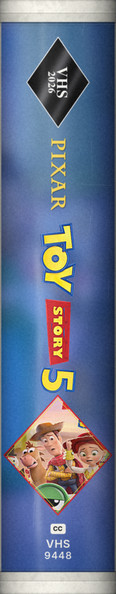
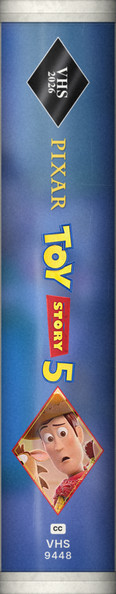
Clamshells: tall diamond portrait with a single face
Claude-Session: https://claude.ai/code/session_01RnhGoJvJQYqU1rpTHc7xo4

Changed region(s): [[0.0259, 0.3636, 0.9569, 0.8788]]

diff --git a/spinegen/tapes.py b/spinegen/tapes.py
@@ -739,7 +739,7 @@ def portrait(box, h, border=(214, 30, 40), inner=(250, 214, 60)):
     """a crop of the poster in a red diamond frame"""
     def fn(im, W, y0, rng):
         cov = Image.open(CUR['cover']).convert('RGB'); cw, ch = cov.size
-        w_ = W * 0.94
+        w_ = W * 0.80  # a true diamond: clearly taller than it is wide, not a square on its corner
         c = cov.crop((int(box[0] * cw), int(box[1] * ch), int(box[2] * cw), int(box[3] * ch))).resize((int(w_ * S), int(h * S)), Image.LANCZOS)
         c = c.filter(ImageFilter.UnsharpMask(3, 60, 2)).convert('RGBA')
         m = Image.new('L', c.size, 0); d = ImageDraw.Draw(m)
@@ -769,7 +769,7 @@ def disney(id, bg, title, face, lcol=(250, 214, 80), head=(('VHS', 30), ('2026',
     W = int(round(w_for(FILMS[id].get('runtime')) * 1.26))  # a clamshell is a thicker box
     items = [Gap(4), Gap(10), head_diamond(head, int(W * .78)), Gap(22), vlogo(id, lcol, int(W * .62), lpath), Gap(22),
              Flex(.5), V(title if isinstance(title, list) else [title], gap=10), Flex(.7),
-             portrait(face, int(W * 1.04)), Gap(16), ccbox(ink), Gap(12),
+             portrait(face, int(W * 1.12)), Gap(16), ccbox(ink), Gap(12),
              tiny(['VHS'], ink, font='intsb', size=22, track=.04), Gap(8), catno(cat or catfor(id)[:4], ink, size=20)]
     add(id, bg, items, fin=fin or dict(CLAM), W=W, notch=False, top=16, bot=26, side=22, **kw)
 
@@ -818,16 +818,16 @@ def ts_plate(y0f, y1f):
 disney('toy-story-5-2026', ('strip', dict(x0=.0, blur=14, wash=((44, 110, 214), .62))),
        LC([(0.375, 0.064, 0.625, 0.146), (0.380, 0.126, 0.610, 0.190), (0.450, 0.168, 0.550, 0.250)], 170, gapf=.05,
           cuts=[ts_letters, ts_plate(.30, .68), ts_letters]),
-       ph(.37, .335, .46, 1.3))
+       ph(.335, .305, .19, 1.4))
 
 # Hoppers: the poster's yellow all the way down, its glitchy black lettering
 disney('hoppers-2026', ('grad', [(0, (252, 200, 30)), (.6, (250, 186, 20)), (1, (236, 150, 14))]),
-       L(tb('hoppers-2026'), 120, (20, 18, 16), speck=.001), ph(.5, .31, .36, 1.3), lcol=(20, 18, 16), ink=(20, 18, 16))
+       L(tb('hoppers-2026'), 120, (20, 18, 16), speck=.001), ph(.5, .305, .22, 1.4), lcol=(20, 18, 16), ink=(20, 18, 16))
 
 # Zootopia 2: city-sky artwork, street-sign green and the crossing-light 2
 disney('zootopia-2-2025', ('strip', dict(x0=.7, blur=10, wash=((40, 120, 200), .45))),
        TT([('ZOOTOPIA', WHT), ('2', (250, 206, 50))], 'popb', 104, track=.02, sp=.12, outline=((14, 96, 60), 4)),
-       ph(.56, .625, .5, 1.3), lcol=WHT)
+       ph(.47, .705, .2, 1.4), lcol=WHT)
 
 
 if __name__ == '__main__':

diff --git a/CLAUDE.md b/CLAUDE.md
@@ -30,7 +30,7 @@ One designed spine picture per tape, made in November 2026 with `spinegen/` (por
 - Catalogue numbers, sticker text and prices are invented. Malice uses the Castle Rock logo file because `films.json` has the wrong studio (Nelvana) for it.
 - Check new spines scaled to 250px tall; thin lettering fades at that size.
 - Rules Ian has set for spines: card wear must never show on the cassette inside the thumb notch (it is plastic; `finish_vhs(notch=...)` repaints it after the wear), the VHS mark and numbers always sit at the foot, and every spine has its title running down it (no title blocks set across the top; Girl in the Box and The Devil Wears Prada 2 were redone for this on 16 November 2026).
-- Disney and Pixar rule (Ian, 16 November 2026): every Disney or Pixar film gets the white clamshell, not a slipcase, laid out like the 1990s Disney clamshell spines (his reference photos): artwork the full length, a black diamond at the head, the studio logo reading down, the title in the film's own logo lettering, a character portrait in a red diamond near the foot, then CC, VHS and the number. Use `disney(...)` in `tapes.py` (currently Zootopia 2, Hoppers, Toy Story 5). A clamshell is a bigger box: its picture is drawn wider and 1188px tall (white plastic caps top and bottom, added by `finish_vhs(kind='clam')`) and saved at the same scale as the others, and `prepare()` in `app.js` sizes any spine picture taller than 560px from the picture itself, so these stand about 270px tall and 53px wide beside the 250px slipcases. The whole spine is rounded plastic, not a flat rectangular face (Ian's note): the picture is shaded as a curved moulding that falls away to both long edges, and `.spine.designed.clam` in `style.css` adds the same roll-off. The ends stay close to square (4px corner radius; a rounder end was tried and Ian found it too rounded). The head diamond holds plain type ("VHS 2026"); the "Classics" emblem from the reference is not recreated. Toy Story 5's title is the poster's own logo cut into its three pieces by colour (`ts_letters`, `ts_plate`) and laid along the spine as TOY, the red STORY plate, then the 5, the way the Toy Story tapes did it.
+- Disney and Pixar rule (Ian, 16 November 2026): every Disney or Pixar film gets the white clamshell, not a slipcase, laid out like the 1990s Disney clamshell spines (his reference photos): artwork the full length, a black diamond at the head, the studio logo reading down, the title in the film's own logo lettering, a single character's face in a red diamond near the foot (a true diamond, taller than wide, not a square on its corner), then CC, VHS and the number. Use `disney(...)` in `tapes.py` (currently Zootopia 2, Hoppers, Toy Story 5). A clamshell is a bigger box: its picture is drawn wider and 1188px tall (white plastic caps top and bottom, added by `finish_vhs(kind='clam')`) and saved at the same scale as the others, and `prepare()` in `app.js` sizes any spine picture taller than 560px from the picture itself, so these stand about 270px tall and 53px wide beside the 250px slipcases. The whole spine is rounded plastic, not a flat rectangular face (Ian's note): the picture is shaded as a curved moulding that falls away to both long edges, and `.spine.designed.clam` in `style.css` adds the same roll-off. The ends stay close to square (4px corner radius; a rounder end was tried and Ian found it too rounded). The head diamond holds plain type ("VHS 2026"); the "Classics" emblem from the reference is not recreated. Toy Story 5's title is the poster's own logo cut into its three pieces by colour (`ts_letters`, `ts_plate`) and laid along the spine as TOY, the red STORY plate, then the 5, the way the Toy Story tapes did it.
 - Look and sources: modelled on Ian's reference image of modern films given retro VHS box spines (title in the poster's own lettering, a framed picture at the head, studio logo, format mark and catalogue number at the foot, rental stickers, worn card). Studio logos and poster crops (including animated and comic characters) are welcome on spines; logos are placed from `logos/`, never redrawn. The typed-only "ZIPPORAH FILMS" (High School) and "UTOPIA" (The Sweet East), and the cast/director credit lines on some spines, were written from memory and may be wrong.
 - Five tapes have no logo file and carry a line of type instead: High School, The Sweet East, Louis C.K.: Ridiculous, Jeff Arcuri, Face/Off.
 - Not verified: that the "Re-mark spine" button is hidden on designed tapes (it only shows with the GitHub token saved, so it could not be seen in a test browser).
